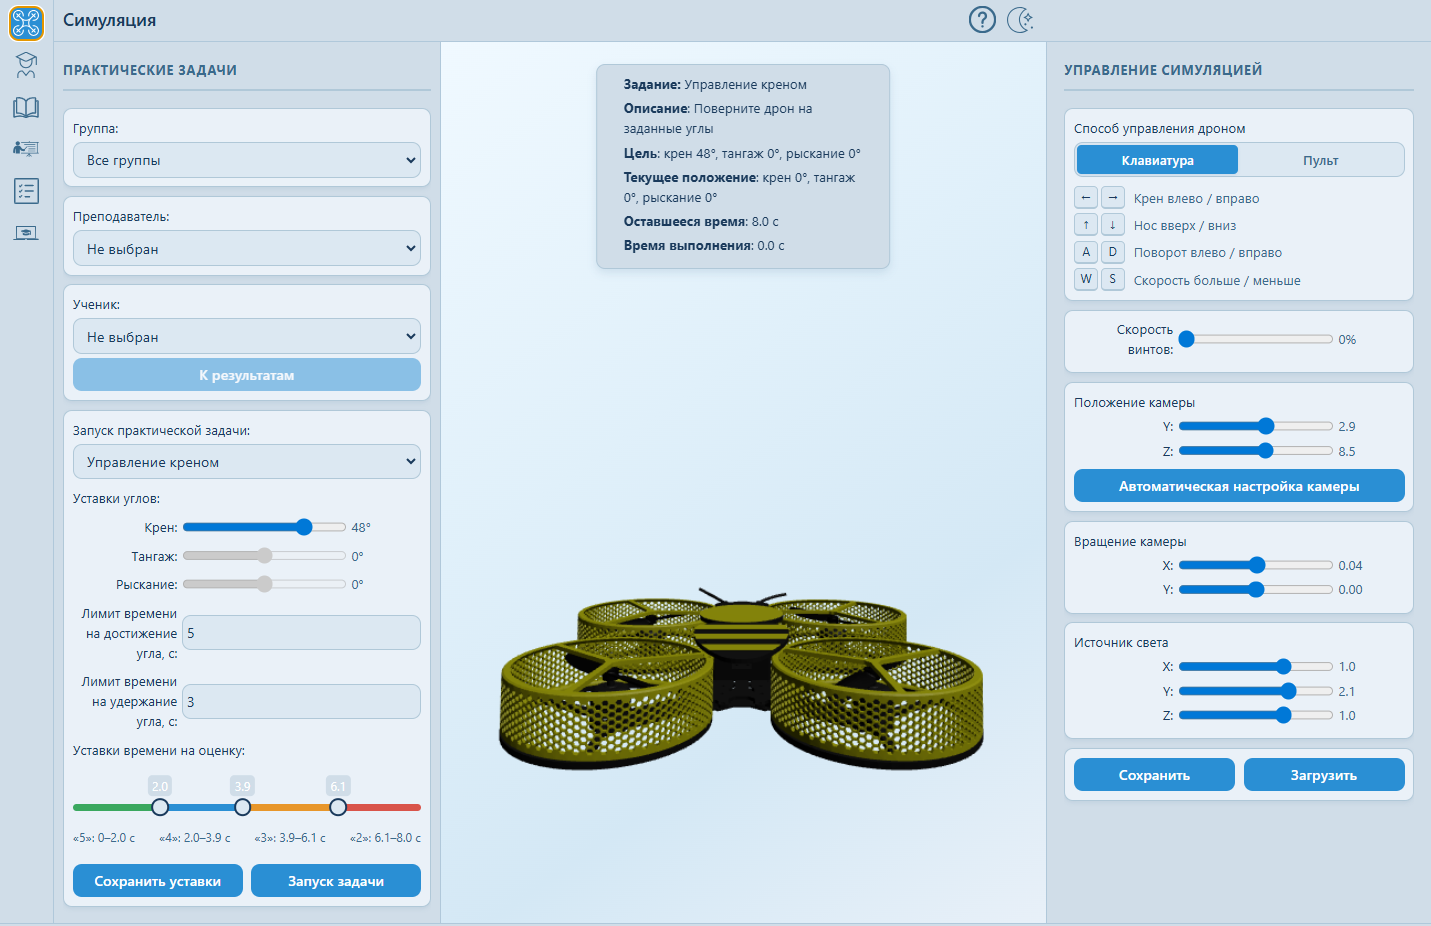
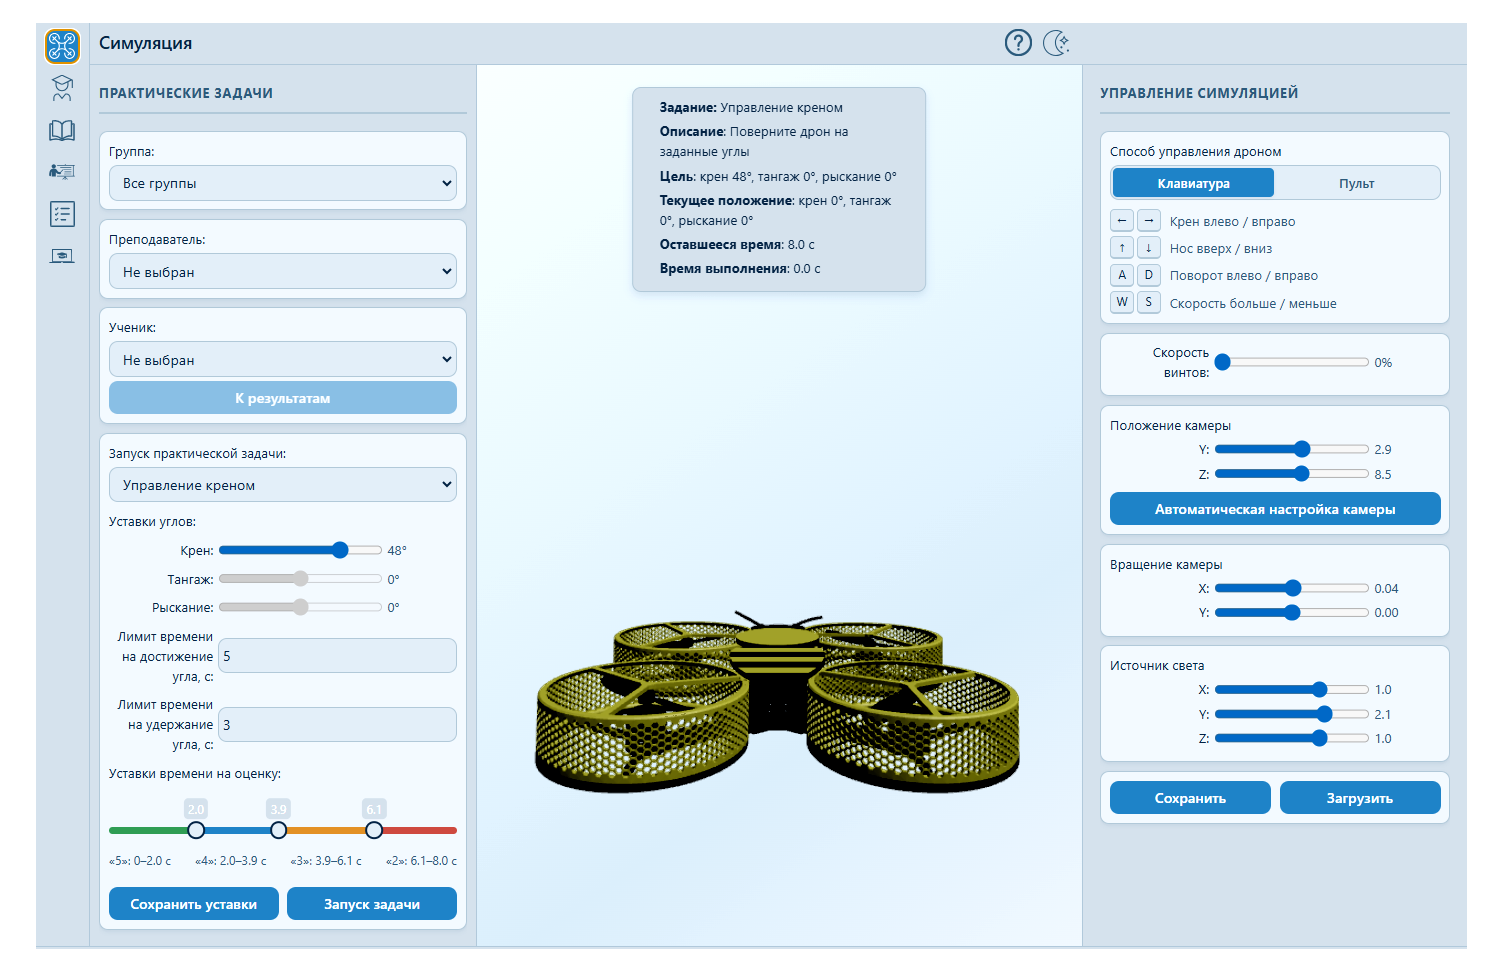
fix: логотип + скрин симулятора

Changed region(s): [[0.0, 0.0, 1.0, 1.0]]

diff --git a/assets/css/styles.css b/assets/css/styles.css
@@ -118,7 +118,7 @@ img {
   width: 168px;
   padding: 8px 12px;
   border-radius: 8px;
-  /* background: var(--white); */
+  background: var(--white);
 }
 .brand-name {
   font-size: 16px;
@@ -178,11 +178,15 @@ img {
   border-radius: 0 0 18px 18px;
   z-index: 60;
 }
-.nav-group:hover .mega-menu,
-.nav-group:hover .small-menu,
 .nav-group.open .mega-menu,
 .nav-group.open .small-menu {
   display: grid;
+}
+@media (min-width: 801px) and (hover: hover) {
+  .nav-group:hover .mega-menu,
+  .nav-group:hover .small-menu {
+    display: grid;
+  }
 }
 .mega-menu {
   grid-template-columns: repeat(2, 220px);
@@ -388,13 +392,13 @@ p {
 .hero-visual {
   height: 560px;
   position: relative;
-  align-self: end;
+  align-self: center;
 }
 .photo-panel {
   position: absolute;
-  inset: 26px -70px 0 0;
+  inset: 0;
   overflow: hidden;
-  border-radius: 34px 0 0 0;
+  border-radius: 34px;
   background: linear-gradient(140deg, #356b93, #0e2e4f);
 }
 .photo-panel:before {
@@ -1214,8 +1218,7 @@ p {
     height: 330px;
   }
   .photo-panel {
-    inset: 0 -16px 0 0;
-    border-radius: 25px 0 0 0;
+    border-radius: 25px;
   }
   .orbit {
     width: 105px;

diff --git a/index.html b/index.html
@@ -66,7 +66,7 @@
           <a href="#/" class="brand brand-footer" aria-label="АвиаТехноСофт — главная">
             <span class="brand-mark">
               <img
-                src="assets/img/Логотип PNG белый.png"
+                src="assets/img/Логотип PNG основной.png"
                 alt="АвиаТехноСофт"
                 width="1605"
                 height="749"
